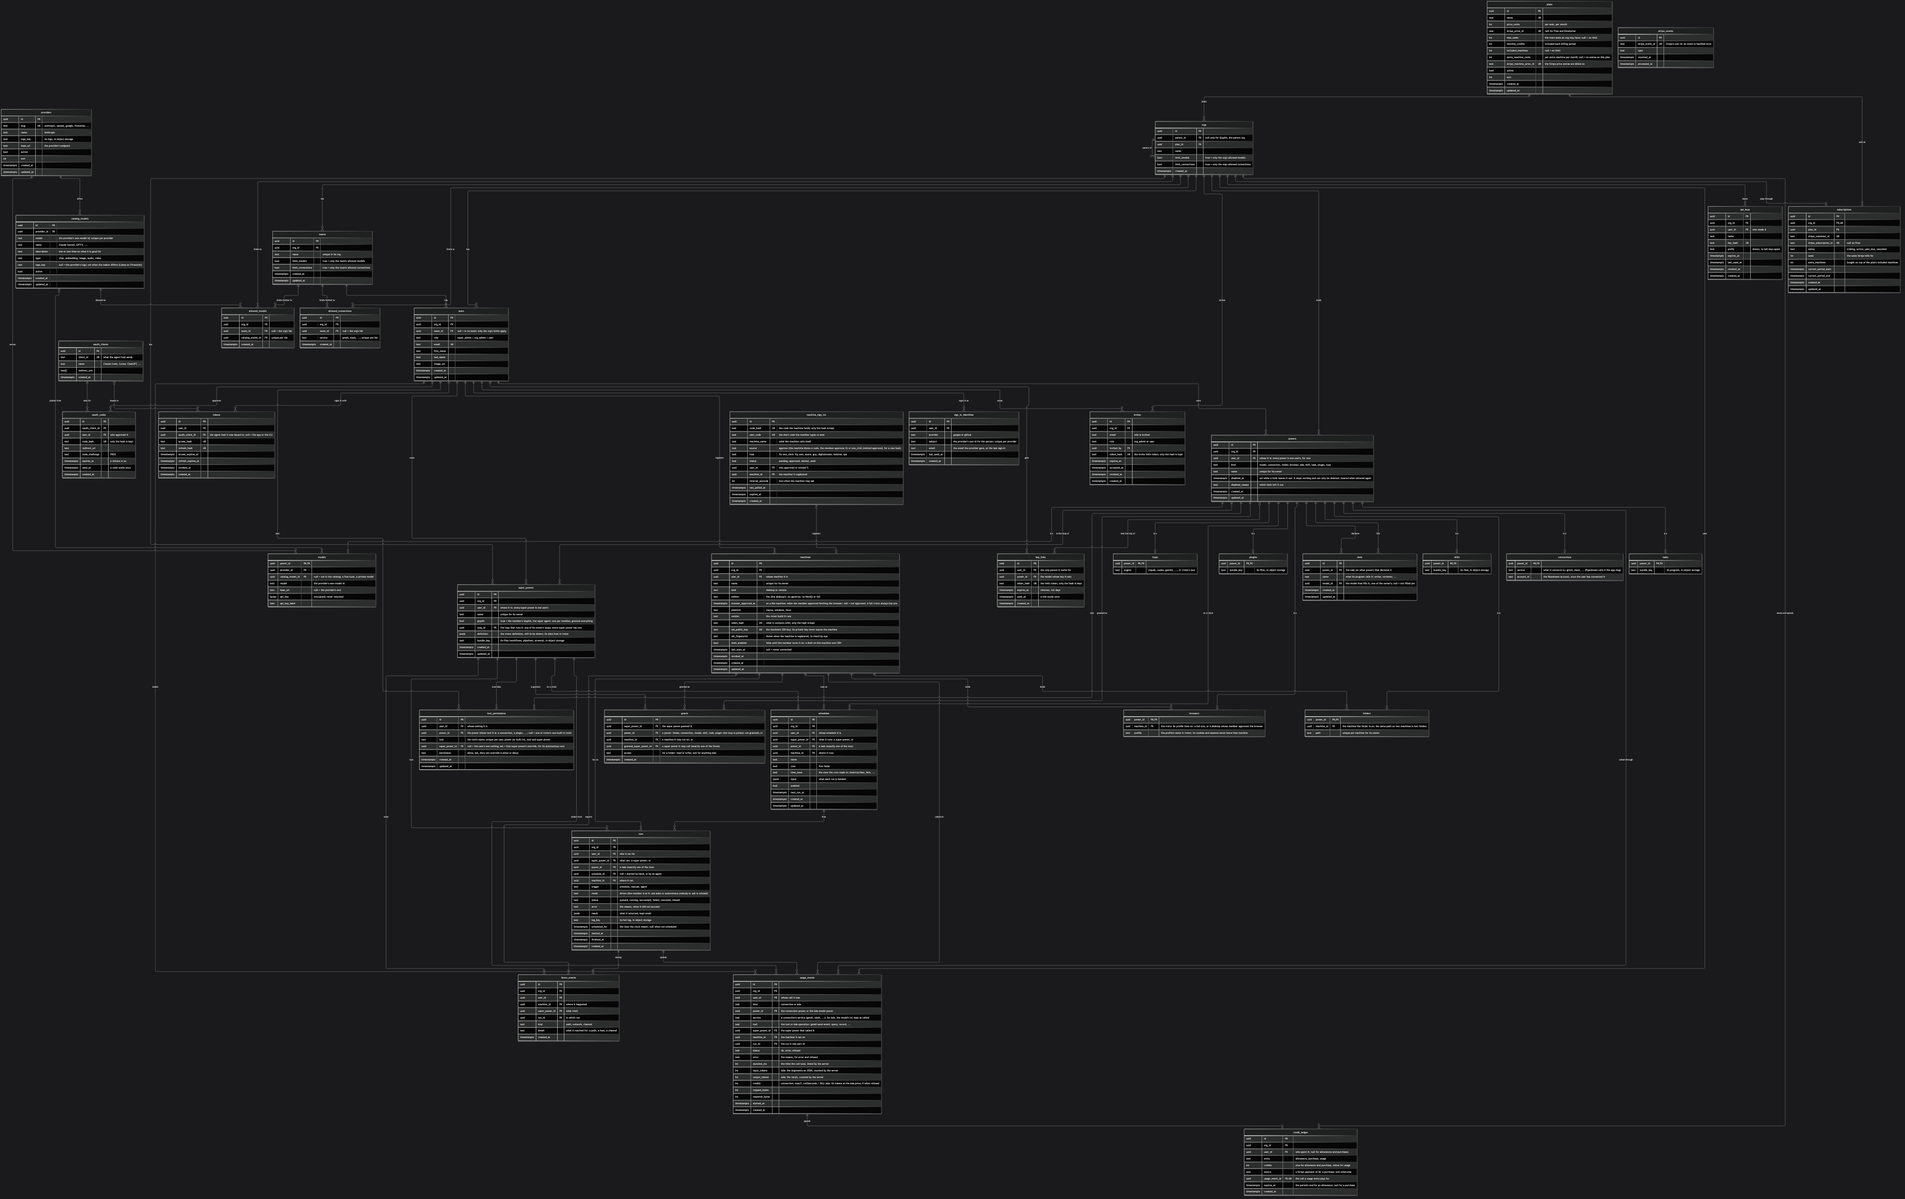
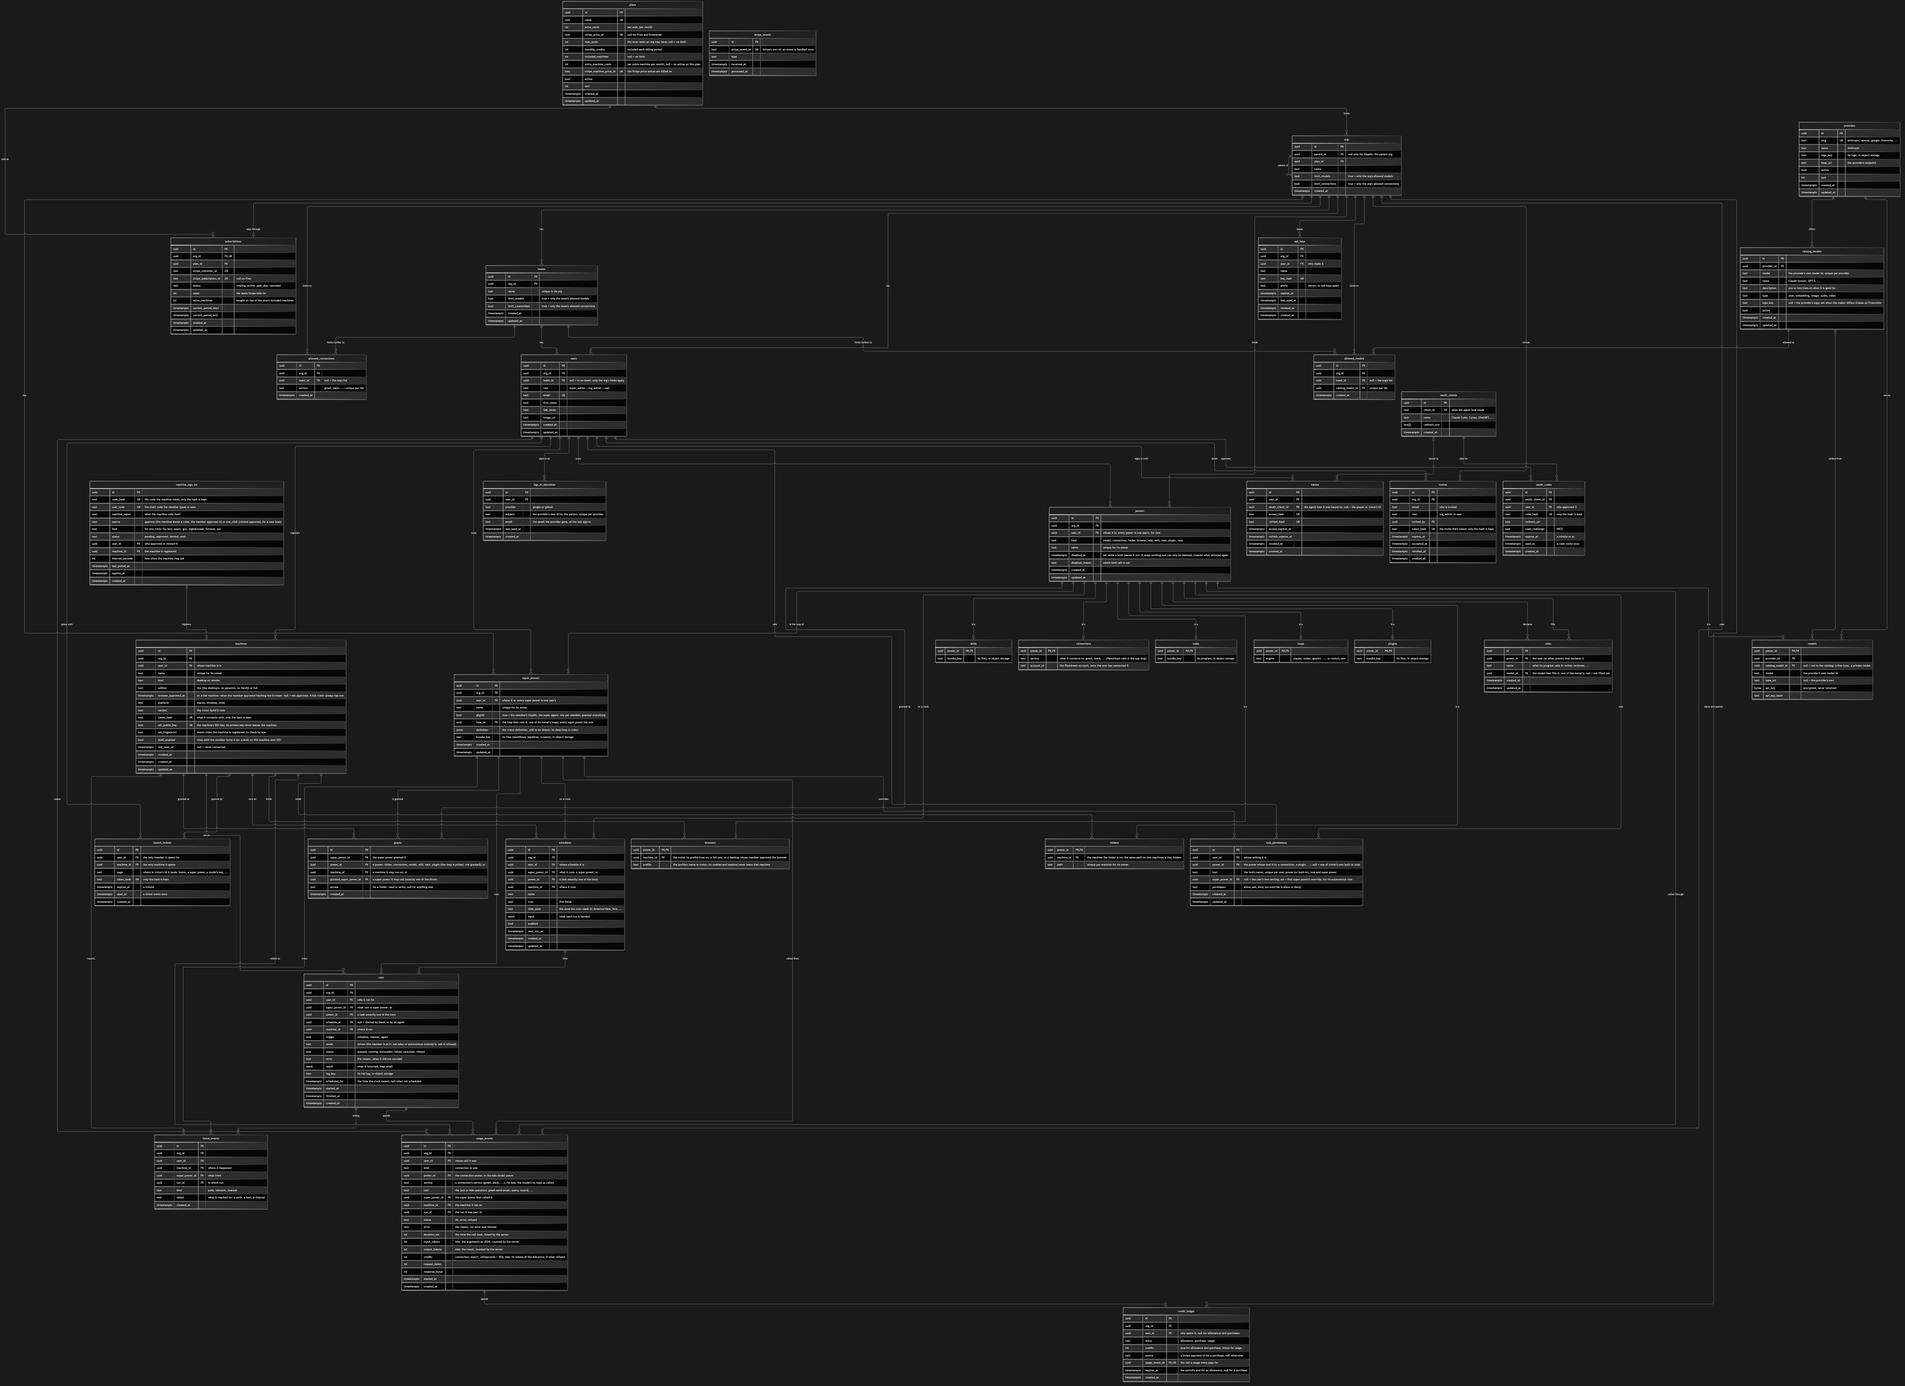
Data model and status follow: launch tickets replace key links; the UI is rrotor's; app and platform repos no longer needed

diff --git a/server/docs/data-model.md b/server/docs/data-model.md
@@ -21,8 +21,8 @@ erDiagram
     oauth_clients ||--o{ oauth_codes : "asks for"
     users ||--o{ oauth_codes : "approves"
     oauth_clients |o--o{ tokens : "issued to"
-    users ||--o{ key_links : "gets"
-    powers |o--o{ key_links : "sets the key of"
+    users ||--o{ launch_tickets : "opens with"
+    machines ||--o{ launch_tickets : "opened by"
     machines ||--o{ folders : "holds"
     machines ||--o{ fence_events : "reports"
     super_powers ||--o{ fence_events : "tried"
@@ -444,13 +444,14 @@ erDiagram
         timestamptz created_at
     }
 
-    key_links {
+    launch_tickets {
         uuid id PK
-        uuid user_id FK "the only person it works for"
-        uuid power_id FK "the model whose key it sets"
-        text token_hash UK "the link's token; only the hash is kept"
-        timestamptz expires_at "minutes, not days"
-        timestamptz used_at "a link works once"
+        uuid user_id FK "the only member it opens for"
+        uuid machine_id FK "the only machine it opens"
+        text page "where in rrotor's UI it lands: home, a super power, a model's key, ..."
+        text token_hash UK "only the hash is kept"
+        timestamptz expires_at "a minute"
+        timestamptz used_at "a ticket works once"
         timestamptz created_at
     }
 
@@ -477,7 +478,7 @@ erDiagram
     tokens {
         uuid id PK
         uuid user_id FK
-        uuid oauth_client_id FK "the agent host it was issued to; null = the app or the CLI"
+        uuid oauth_client_id FK "the agent host it was issued to; null = the player or rrotor's UI"
         text access_hash UK
         text refresh_hash UK
         timestamptz access_expires_at
@@ -554,13 +555,13 @@ An org admin invites someone by email, with the role they will have. The invite 
 
 - **sign_in_identities:** a person signs in with Google or GitHub, and the server finds them by the provider's own id for them (`subject`), never by email alone: an email that changes, or a GitHub account with a hidden email, still finds the same person, and an email can never be used to reach someone else's account. The first sign-in links by email, once, through an invite or a new org.
 - **The plugin signs in with OAuth:** an agent host (Claude Code, Cursor, ChatGPT) is an `oauth_clients` row; the member approves it in the browser, the host gets a one-time code (`oauth_codes`, with PKCE, a minute to live), and trades it for tokens issued to that client, so the member can see and revoke each host on its own.
-- **key_links:** the one-time link an agent hands the member to enter a model's key on the platform. It works once, for minutes, only for that member signed in, and only for that model.
+- **launch_tickets:** how a machine's UI is opened, from Claude, the player or an agent's link (to enter a model's key, say): issued by the server for one member and one machine, landing on one page, for a minute, once. The rrotor checks it with the server and starts the session, so a member signs in once, on the server, never on a machine.
 
 ## tokens
 
 What the server hands out after a sign-in: a short-lived access token and a longer-lived refresh token. Only their hashes are stored, so a stolen database holds no usable token. A token is revoked by setting `revoked_at`.
 
-A token issued to an agent host carries its OAuth client (`oauth_client_id`), so each host is revoked on its own; the app's and the platform's tokens carry none. Machines have their own token on `machines`, not here.
+A token issued to an agent host carries its OAuth client (`oauth_client_id`), so each host is revoked on its own; the player's and rrotor's UI's carry none. Machines have their own token on `machines`, not here.
 
 **api_keys** are the keys Glyphh issues, so a script or a runtime can call the Glyphh API; only a hash is stored, with a short prefix shown to tell keys apart.
 
@@ -583,14 +584,14 @@ Every power is a row in `powers` (who owns it, its kind and name), and one row i
 - **A browser** is a browser profile on one rrotor (a full one, or a desktop whose member approved the browser): its cookies and signed-in sessions live there and never leave that machine or reach the server. It is granted like a folder, so one super power's signed-in sites are never another's.
 - **Skills, tasks and plugins** are bundles of files in object storage (`bundle_key`); whether each save keeps a version is still open.
 - **A secret** (a key, a sign-in) is encrypted at rest, never returned after it is saved, and handed only to the member's own runtime when a super power runs.
-- **The catalog** is what the app and the platform show when someone picks a model, and where every model's logo comes from: `providers` (each with its name and logo) and `catalog_models` (each provider's models, with a name, a description and a type). Every entry shows the provider's logo, the provider, the model's name, its description and its type. It is Glyphh's reference data, the same for every org: anyone signed in reads it, only super admins change it. It starts from the old server's list (about 3,900 models across about 125 providers) and its 143 provider logos, kept in object storage. It holds no prices, rates or limits.
+- **The catalog** is what rrotor's UI shows when someone picks a model, and where every model's logo comes from: `providers` (each with its name and logo) and `catalog_models` (each provider's models, with a name, a description and a type). Every entry shows the provider's logo, the provider, the model's name, its description and its type. It is Glyphh's reference data, the same for every org: anyone signed in reads it, only super admins change it. It starts from the old server's list (about 3,900 models across about 125 providers) and its 143 provider logos, kept in object storage. It holds no prices, rates or limits.
 - **A model power** points at its provider (always) and at the catalog entry it was picked from (when there is one), so it shows that logo and name wherever it appears. A model the catalog does not have (a fine-tune, a private model) is still added, by its provider and model id, and wears the provider's logo.
 
 Left behind from the old gateway: the router itself, LiteLLM's 80-odd tables, model access lists, the request log, budgets, margins and the dollar pool, spend roll-ups, auto-routers, and per-model flags nothing enforced.
 
 ## Tool permissions
 
-Every tool a power brings (each tool of a connection, of a plugin's MCP server, ...) has a permission, set where the app shows that power (the powers window, Connections):
+Every tool a power brings (each tool of a connection, of a plugin's MCP server, ...) has a permission, set where rrotor's UI shows that power:
 
 - **The user's own setting:** `allow` (runs without asking), `ask` (asks each time) or `deny` (never runs). A tool with no row is `ask`.
 - **A super power's override:** for its autonomous runs, a super power can set a tool to `allow` or `deny`, whatever the user's own setting says. With no override, the user's own setting applies.
@@ -622,15 +623,15 @@ Anything that runs on its own can be put on a clock: a super power or a task.
 
 ## Machines
 
-Signing in always happens from a machine, and signing in is how a machine is registered: rrotor (on a server, or inside the desktop app) asks the server for a code, the member approves it in the browser, and the server registers the machine and issues its tokens (`machine_sign_ins` holds the code while it waits, only as a hash). Ported from the old server's device sign-in.
+Signing in always happens from a machine, and signing in is how a machine is registered: rrotor (on a server, or on a desktop) asks the server for a code, the member approves it in the browser, and the server registers the machine and issues its tokens (`machine_sign_ins` holds the code while it waits, only as a hash). Ported from the old server's device sign-in.
 
-**One-click hosting** registers a new machine the same way, without the approve step: the member asks the app or the platform for a new host, the server mints a sign-in already approved (`source` one_click, the host named), and the host's button carries its code. On first boot the machine trades it for its own token and SSH key; the code works once and for minutes, then it is `used`. No code is minted when the plan has no machine left, so nothing is half set up.
+**One-click hosting** registers a new machine the same way, without the approve step: the member asks rrotor's UI or the plugin for a new host, the server mints a sign-in already approved (`source` one_click, the host named), and the host's button carries its code. On first boot the machine trades it for its own token and SSH key; the code works once and for minutes, then it is `used`. No code is minted when the plan has no machine left, so nothing is half set up.
 
-A machine is a registered rrotor, a small Linux VM: a member's desktop (the app runs it) or a remote server they run, on any host. It connects out to the server with its own token (only the hash is kept) and reports what it is: a desktop or a remote server, its platform, and the rrotor version it runs (builds update themselves, so the server sees which version each machine is on). `last_seen_at` says when it was last online. Its edition says what it can host: a desktop's rrotor is lite (no pgvector, no Neo4j), a remote one is full, so a super power that needs vectors or a graph is never placed or scheduled on a lite machine. A lite machine gets a browser only once its member approves it (`browser_approved_at`), and a browser power is never placed on a desktop before that. A folder is always on one machine (`folders.machine_id`): the same path on two machines is two folders, and a folder grant says whether the super power may only read it or also write it (`grants.access`). At sign-in a machine also makes its own SSH key pair: the private key stays on the machine, the public key is registered here with its fingerprint (see the architecture, Machine to machine). A plan includes a number of machines (`included_machines`). An org can add more for a monthly price per extra machine, set per plan (`extra_machine_cents`, billed on the plan's Stripe price for extras); the subscription carries how many it bought (`extra_machines`). An org can register up to its included plus its extra machines; revoking one stops it connecting and frees its place.
+A machine is a registered rrotor, a small Linux VM: a member's desktop (a small helper runs it) or a remote server they run, on any host. It connects out to the server with its own token (only the hash is kept) and reports what it is: a desktop or a remote server, its platform, and the rrotor version it runs (builds update themselves, so the server sees which version each machine is on). `last_seen_at` says when it was last online. Its edition says what it can host: a desktop's rrotor is lite (no pgvector, no Neo4j), a remote one is full, so a super power that needs vectors or a graph is never placed or scheduled on a lite machine. A lite machine gets a browser only once its member approves it (`browser_approved_at`), and a browser power is never placed on a desktop before that. A folder is always on one machine (`folders.machine_id`): the same path on two machines is two folders, and a folder grant says whether the super power may only read it or also write it (`grants.access`). At sign-in a machine also makes its own SSH key pair: the private key stays on the machine, the public key is registered here with its fingerprint (see the architecture, Machine to machine). A plan includes a number of machines (`included_machines`). An org can add more for a monthly price per extra machine, set per plan (`extra_machine_cents`, billed on the plan's Stripe price for extras); the subscription carries how many it bought (`extra_machines`). An org can register up to its included plus its extra machines; revoking one stops it connecting and frees its place.
 
 **Which server process holds a machine's connection is not in this database:** it is live state that is only true right now, so it lives in Redis (see the architecture, Data). `last_seen_at` here is updated when a machine connects and disconnects, not on every heartbeat.
 
-**fence_events** are what rrotor reports when something inside a run reaches past its fence: a path that is not mounted, a host not on its network list, a channel it was not granted. The relay never reads the stream to find them; rrotor tells the server, and the platform shows them ("this super power tried to leave its folders").
+**fence_events** are what rrotor reports when something inside a run reaches past its fence: a path that is not mounted, a host not on its network list, a channel it was not granted. The relay never reads the stream to find them; rrotor tells the server, and rrotor's UI shows them ("this super power tried to leave its folders").
 
 A machine's shell over SSH is off until the member turns it on (`shell_enabled`).
 

diff --git a/server/docs/status.md b/server/docs/status.md
@@ -9,39 +9,38 @@ As of 2026-10-11. The rule: the data model is drawn first, then built in the ord
 - **SDKs** (`glyphh-ai/glyphh`): TypeScript and Python, generated from the server's OpenAPI spec, with health as the first call; both suites run in Docker against the server.
 - **Docs:** this site (architecture, data model, this page).
 
+The repos `glyphh-ai/app` and `glyphh-ai/platform` are no longer needed: the UI lives in rrotor, the sign-in pages in the server.
+
 ## Drawn, not built
 
 On the [data model](data-model.md), in the order they were drawn:
 
 - **Powers:** `powers` and one table per kind (`models`, `connections`, `folders`, `skills`, `tasks`, `plugins`, `loops`). Every power is one user's own, with a disabled mark for when a limit leaves it out.
-- **Catalog:** `providers` (with logos) and `catalog_models` (name, description, type), the list the app picks models from.
+- **Catalog:** `providers` (with logos) and `catalog_models` (name, description, type), the list rrotor's UI picks models from.
 - **Super powers:** `super_powers` (one loop each; the member's Glyphh has everything), `grants` (folders, connections, models, skills, tasks, plugins, machines, other super powers), `slots` (a task's steps, each filled with a model), `tool_permissions` (allow, ask, deny per tool, with a super power's override for autonomous runs).
 - **Teams and limits:** `teams`, `allowed_models`, `allowed_connections`, and the two limit switches on orgs and teams.
 - **Schedules and runs:** `schedules` (the server's clock, sent to a machine) and `runs` (the history).
 - **Billing and usage:** the plan's credit and machine columns, `subscriptions`, `credit_ledger`, `usage_events` (logged by the server's connection relay, one per call).
 - **Browsers and hosting:** `browsers` (a browser profile on one full rrotor, granted like a folder), and one-click sign-ins on `machine_sign_ins` for new hosts.
 - **People and machines:** `invites`, `machines` (with their edition, SSH key, fingerprint and shell switch), `machine_sign_ins`, `fence_events` (what rrotor reports when a run reaches past its fence), `api_keys`; folders are on a machine, and folder grants are read or write.
-- **Signing in and Stripe:** `sign_in_identities` (Google and GitHub by the provider's own id), `oauth_clients` and `oauth_codes` (the plugin's sign-in), `key_links` (the platform's one-time key links), `stripe_events` (each webhook handled once).
+- **Signing in and Stripe:** `sign_in_identities` (Google and GitHub by the provider's own id), `oauth_clients` and `oauth_codes` (the plugin's sign-in), `launch_tickets` (open one machine's UI, once, for a minute), `stripe_events` (each webhook handled once).
 
-On the [architecture](architecture.md): tasks with Jev (a model on the member's key) and Ada (our kernel, billed per token), dependencies and Discover, desktop browsers for super powers, fetched only with the member's approval, Redis for live state (which process holds each machine, heartbeats, messages between processes), rrotor as a Linux VM (the app you drive unsandboxed, remote control only through rrotor by grants), the platform's usage and billing pages, adding a model in the app, what rrotor carries (Postgres with pgvector, a Next.js server, the loop), and machine to machine over SSH through the relay.
+On the [architecture](architecture.md): no desktop app and no platform (every rrotor serves Glyphh's UI, opened in Claude or any browser through the player; sign-in once on the server; four sign-in pages), tasks with Jev (a model on the member's key) and Ada (our kernel, billed per token), dependencies and Discover, desktop browsers for super powers, fetched only with the member's approval, Redis for live state (which process holds each machine, heartbeats, messages between processes), rrotor as a Linux VM (everything Glyphh runs is inside it, reached only by grants), usage and billing pages in rrotor's UI, adding a model in rrotor's UI, what rrotor carries (Postgres with pgvector, a Next.js server, the loop), and machine to machine over SSH through the relay.
 
 ## Open
 
 Decisions still to make. Where a proposal is written, it is a proposal, not a decision.
 
-- **Conversations:** not drawn. Proposal: the server keeps each conversation's record (title, super power, machine, run, status, times), rrotor keeps the messages, and the app and web open them over SSH through the relay.
-- **Where the org admin's pages live:** members, teams, and the allowed models and connections, in the app or on the platform.
+- **Conversations:** not drawn. Proposal: the server keeps each conversation's record (title, super power, machine, run, status, times), rrotor keeps the messages, and rrotor's UI opens them through the player through the relay.
 - **Ada in credits:** how the Ada price per token is stated in credits.
 - **Super powers in Discover:** whether a super power becomes one more power type (`super_powers` folds into `powers`) or keeps its own table and is listed the same way.
 - **Requirements and listings:** the tables for power dependencies and the Discover catalog, drawn when built.
-- **App settings** (workspaces, tabs, layout, appearance): not drawn; on hold.
-- **The rrotor definition:** what a super power's definition holds (its workflows, pipelines and screens), how one super power's data is kept apart from another's in rrotor's Postgres, and how its screens reach the app and the web from a remote machine.
+- **The rrotor definition:** what a super power's definition holds (its workflows, pipelines and screens), how one super power's data is kept apart from another's in rrotor's Postgres, and how its screens are laid out inside Glyphh's UI.
 - **Power bundles:** whether saving a skill or task keeps each version, and how edits made in a machine's folder get back to the server.
 - **Plans:** price per credit and monthly credits per plan, included and extra machines for Solo, Basic and Pro, whether runs themselves spend credits, and whether Free is held to one connected service.
 - **Usage detail:** how long each call's row is kept.
 - **Teams:** whether a user can be in more than one (drawn as at most one).
 - **Catalog descriptions:** the old list has no descriptions for its 3,900 models; they are to be written or imported.
-- **Platform stack:** a very small web app in `glyphh-ai/platform`, stack not chosen.
 
 ## Next
 
